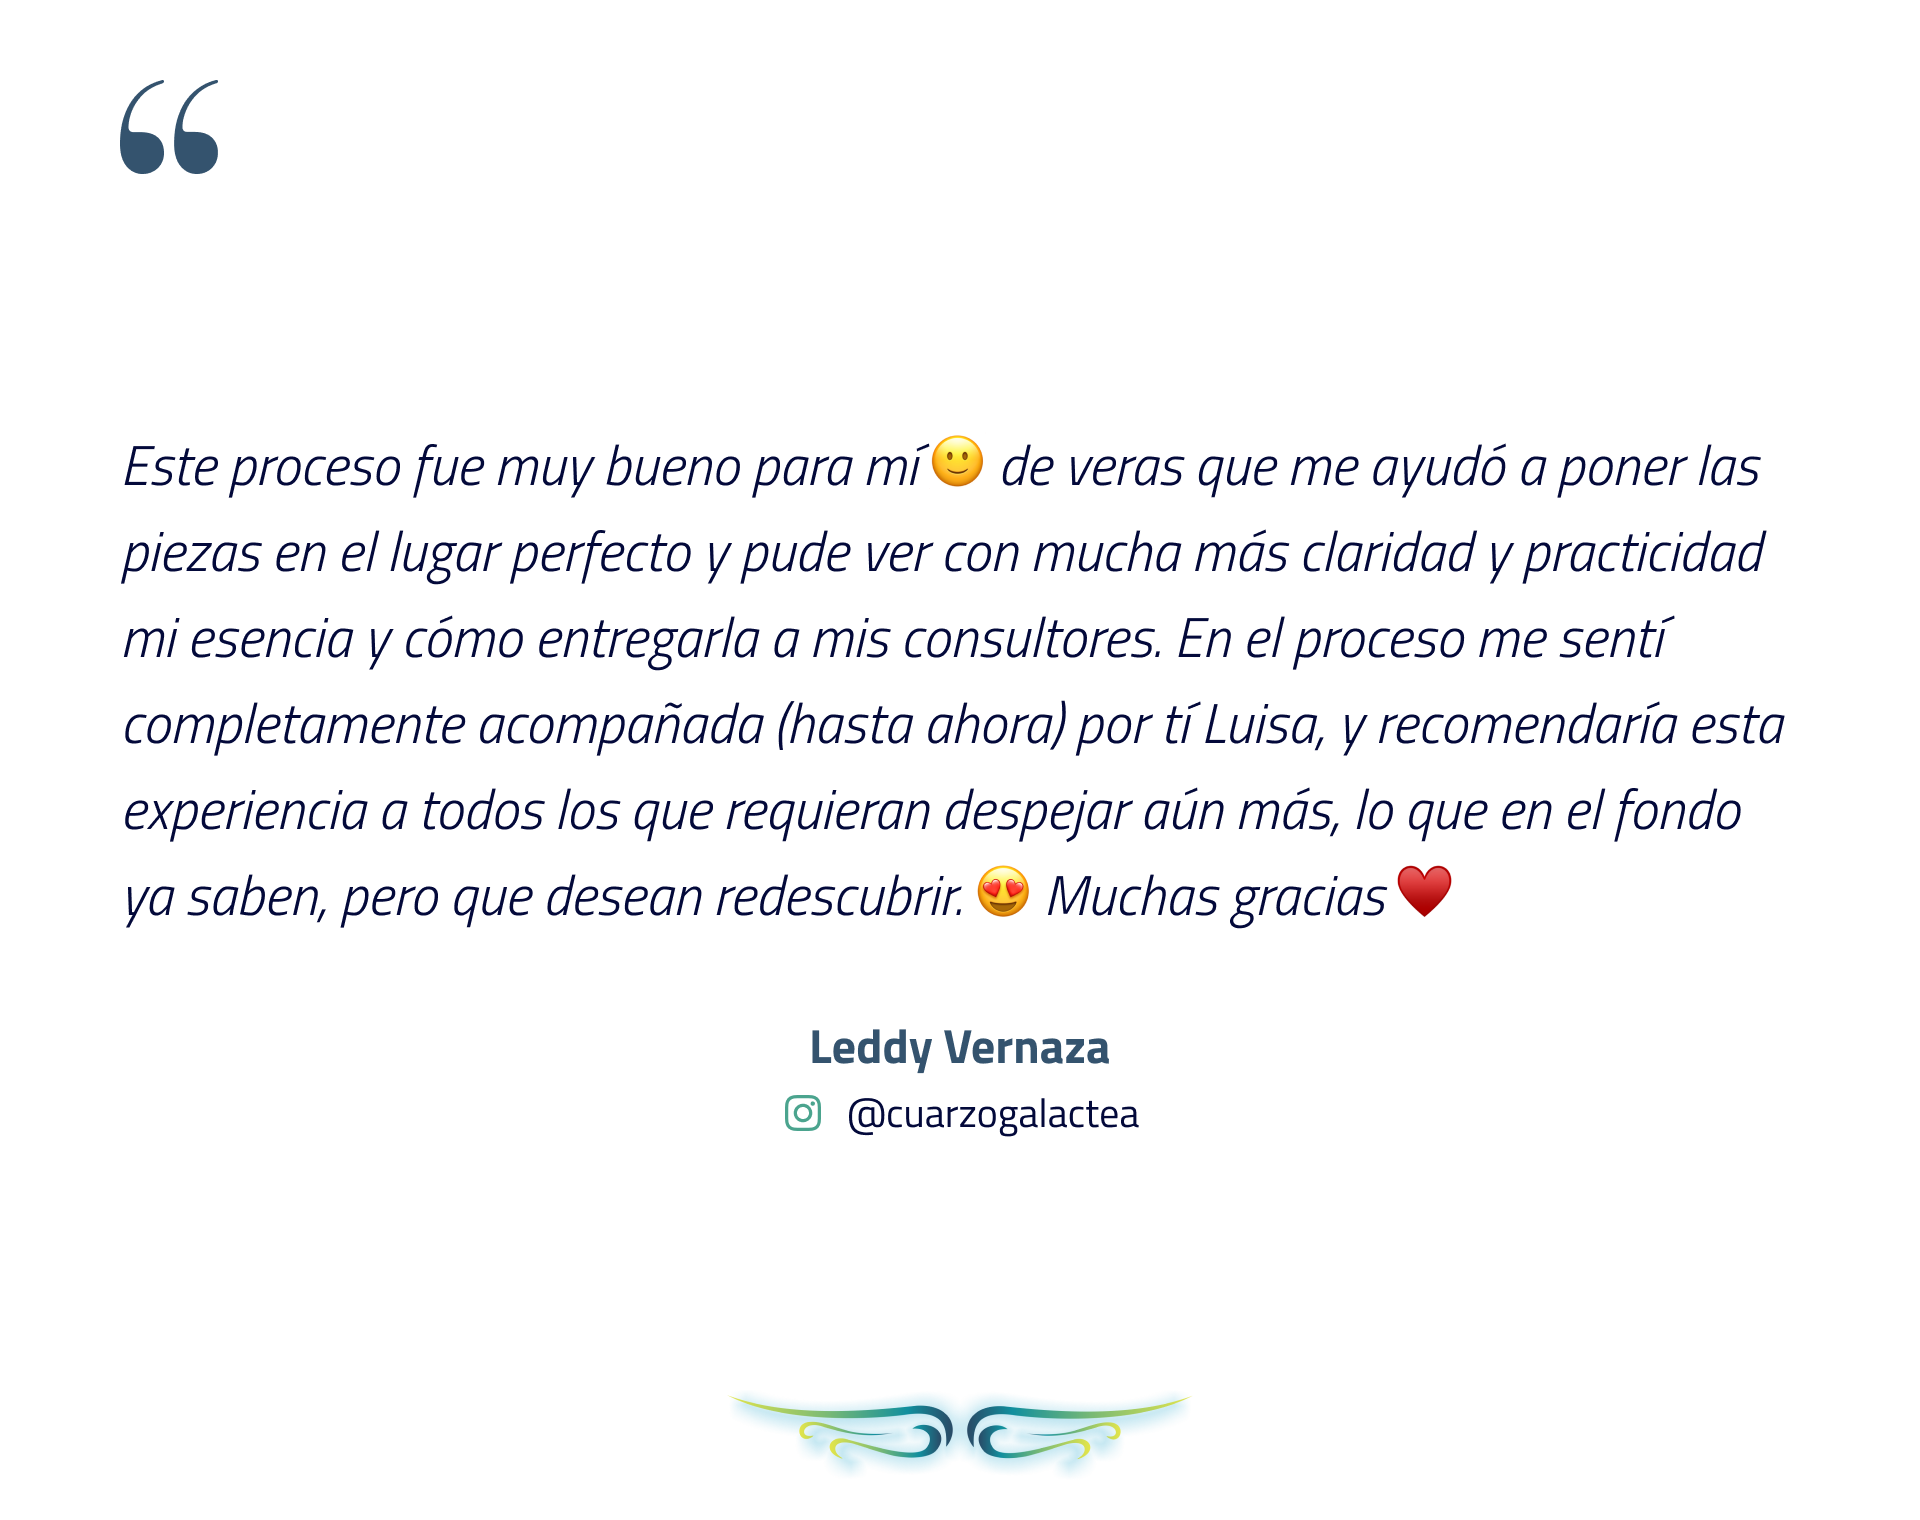
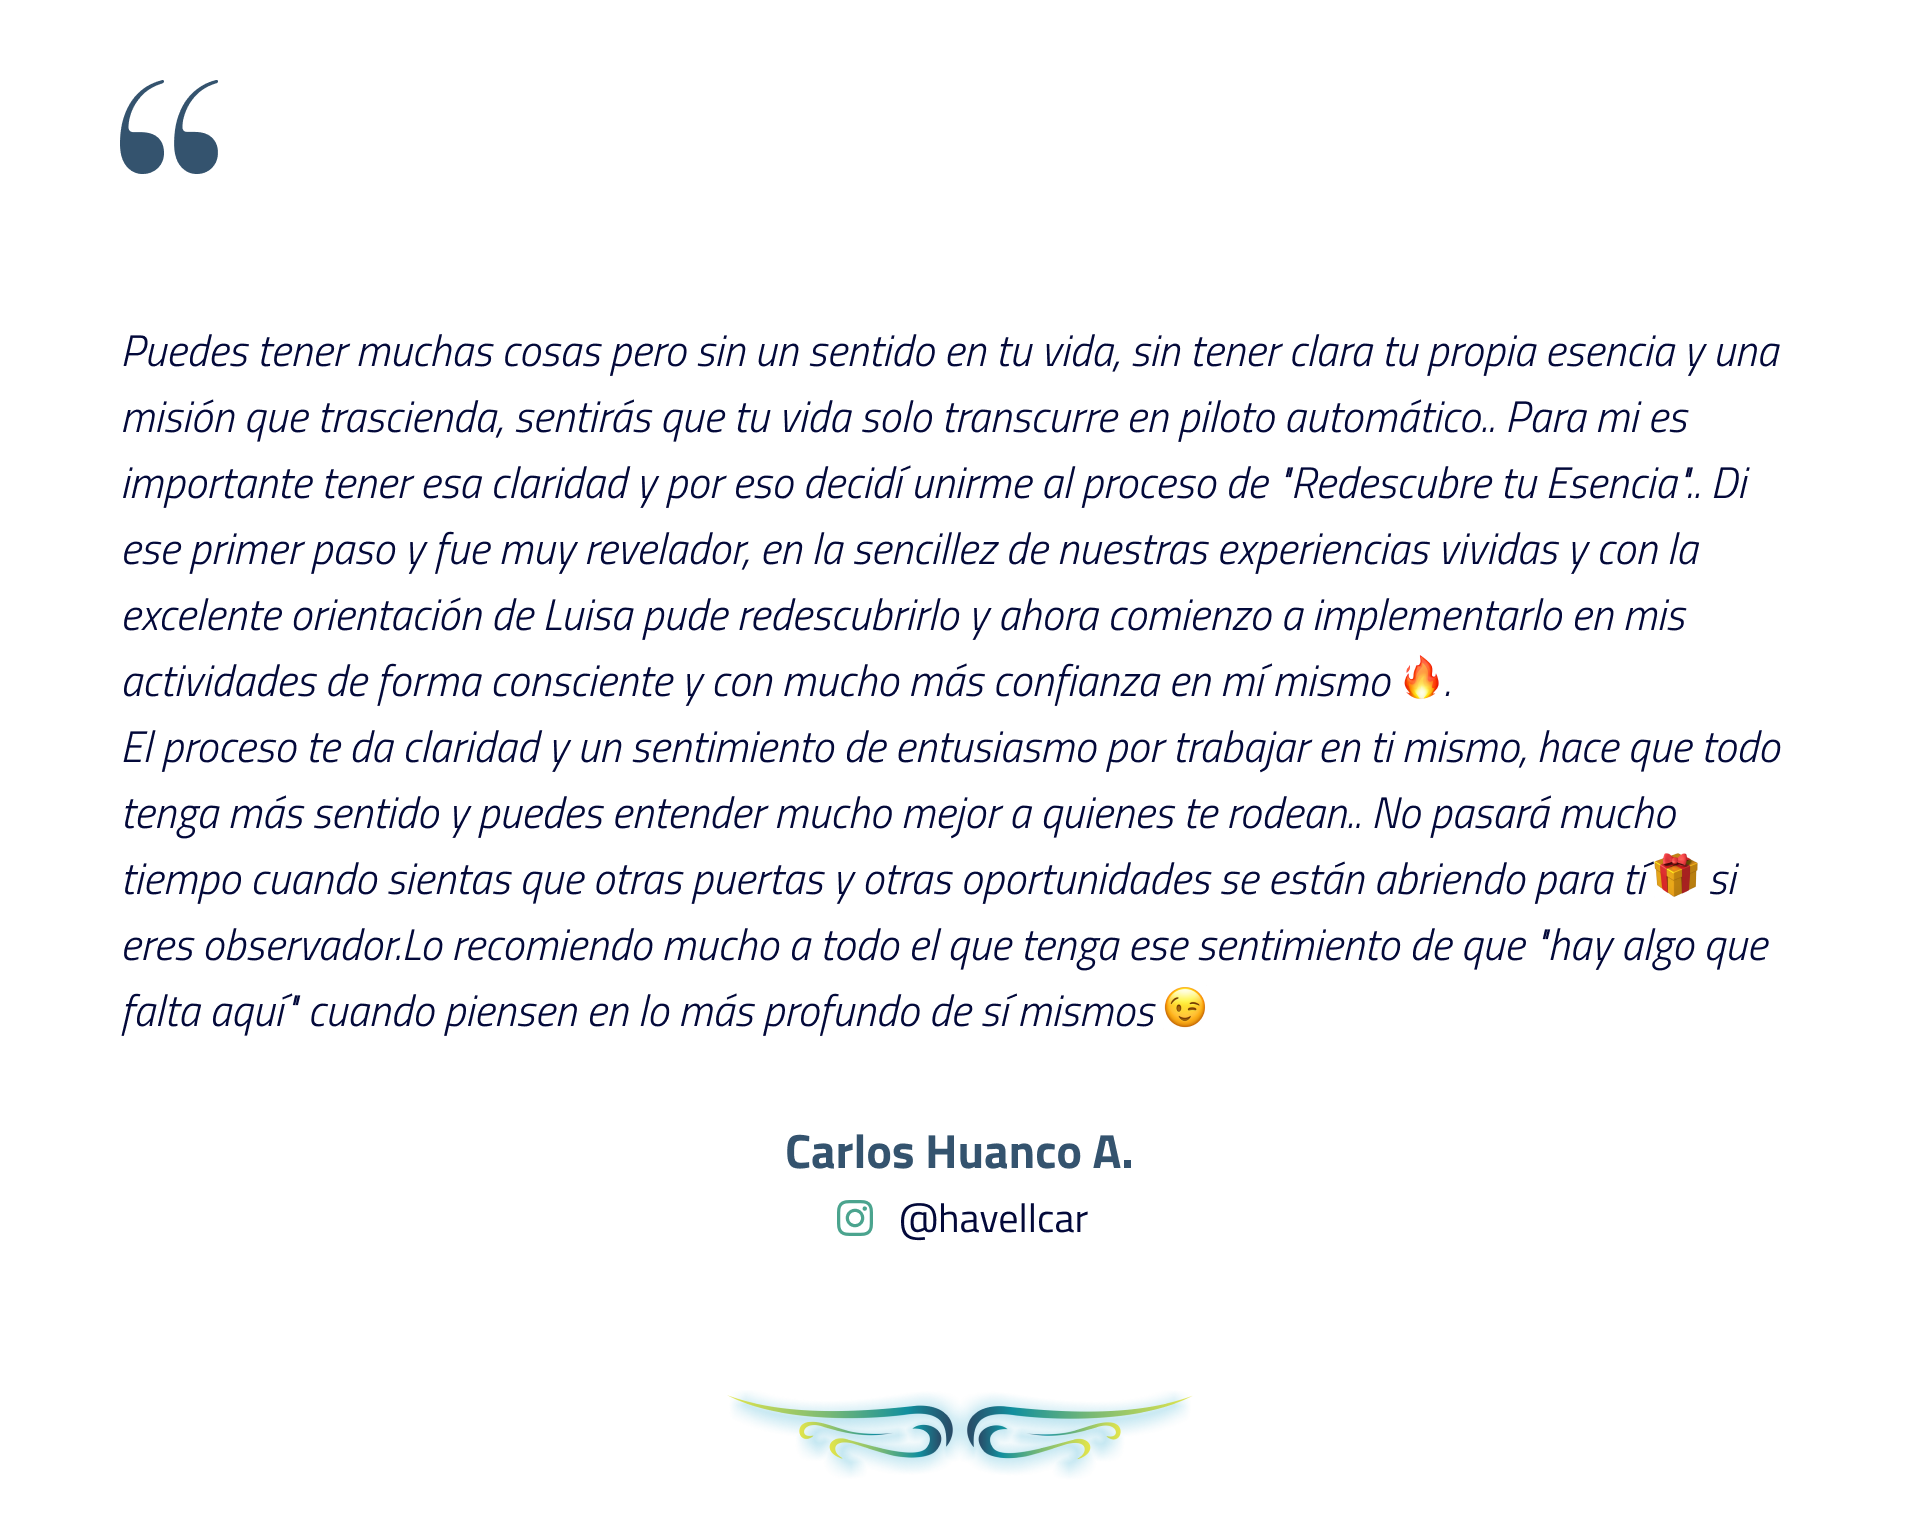
Update de testimonios en Contacto | update info de contacto y programas

Changed region(s): [[0.0625, 0.2164, 0.9375, 0.8349]]

diff --git a/pages/contact.html b/pages/contact.html
@@ -69,12 +69,13 @@
                     <p>Soy <span class="txtresaltado">Licenciada en Administración</span> (UNMSM - Lima), con amplia
                         experiencia en negociación, servicio al cliente y gestión de experiencia de servicio.
                         <p><span class="txtresaltado">Practicante del REIKI</span> desde el año 2008, <span
-                                class="txtresaltado">Coach ontológica</span> certificada por la PUCP (2009) y en
-                            Especialización adicional en <span class="txtresaltado">Coaching de Padres.</span> Además,
-                            formada en <span class="txtresaltado">Terapias de Sanación Integral</span> certificada por
-                            LifeOrg - Perú, entrenada en <span class="txtresaltado">medicina energética</span> en Umbral
-                            de la Montaña y en programas de <span class="txtresaltado">Mindfulness y cultivo de la
-                                compasión</span> en Anukampa.</p>
+                                class="txtresaltado">Coach ontológica</span> certificada por la PUCP (2009) y en y en
+                            <span class="txtresaltado">Life Coach</span> certificada por el Institute for the practice
+                            of Ontology (IPO Italia) con una <span class="txtresaltado">Especialización adicional en
+                                Coaching de Padres.</span> Además, formada en <span class="txtresaltado">Terapias de
+                                Sanación Integral</span> certificada por LifeOrg - Perú, entrenada en <span
+                                class="txtresaltado">medicina energética</span> en Umbral de la Montaña y en programas
+                            de <span class="txtresaltado">Mindfulness y cultivo de la compasión</span> en Anukampa.</p>
                         <p>Autora del libro <span class="txtresaltado">“Convierte tu dolor en un milagro”</span> donde
                             plasmo mi vivencia y aprendizaje de vida. Experta en descubrir <span
                                 class="txtresaltado">piezas claves</span> para recuperar la confianza, encontrando las
@@ -119,6 +120,30 @@
                         </div>
                         <div class="carousel-item">
                             <img src="../imgs/reviewd.png" class="d-block w-100" alt="Programas Luisa Hurtado">
+                        </div>
+                        <div class="carousel-item">
+                            <img src="../imgs/reviewe.png" class="d-block w-100" alt="Programas Luisa Hurtado">
+                        </div>
+                        <div class="carousel-item">
+                            <img src="../imgs/reviewf.png" class="d-block w-100" alt="Programas Luisa Hurtado">
+                        </div>
+                        <div class="carousel-item">
+                            <img src="../imgs/reviewg.png" class="d-block w-100" alt="Programas Luisa Hurtado">
+                        </div>
+                        <div class="carousel-item">
+                            <img src="../imgs/reviewh.png" class="d-block w-100" alt="Programas Luisa Hurtado">
+                        </div>
+                        <div class="carousel-item">
+                            <img src="../imgs/reviewi.png" class="d-block w-100" alt="Programas Luisa Hurtado">
+                        </div>
+                        <div class="carousel-item">
+                            <img src="../imgs/reviewj.png" class="d-block w-100" alt="Programas Luisa Hurtado">
+                        </div>
+                        <div class="carousel-item">
+                            <img src="../imgs/reviewk.png" class="d-block w-100" alt="Programas Luisa Hurtado">
+                        </div>
+                        <div class="carousel-item">
+                            <img src="../imgs/reviewl.png" class="d-block w-100" alt="Programas Luisa Hurtado">
                         </div>
 
                     </div>

diff --git a/pages/programas.html b/pages/programas.html
@@ -92,8 +92,7 @@
                 <div class="servicios">
                     <h2 class="underline">Herramientas de coaching</h2>
                     <p>Este programa está <span class="txtresaltado">dirigido a líderes, consejeros y personas que
-                            en sus emprendimientos faciliten el desarrollo personal y de habilidades en sus
-                            clientes.</span></p>
+                            faciliten el desarrollo personal y de habilidades en sus clientes.</span></p>
                     <p>Con lo aprendido podrán aplicar técnicas y distinciones, usadas en la
                         práctica del coaching, <span class="txtresaltado">que facilitan la auto-reflexión y
                             estimulan la creatividad</span> para tomar un rol protagónico en su vida a través de
